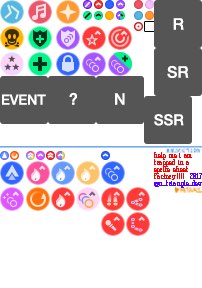
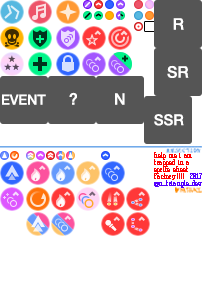
add Tricolor Symphony and Cinderella Yell skills

Changed region(s): [[0.1188, 0.7188, 0.3861, 0.8438], [0.505, 0.75, 0.5941, 0.8125], [0.3267, 0.5, 0.3861, 0.5625]]

diff --git a/static/css/main.less b/static/css/main.less
@@ -133,7 +133,7 @@ footer {
 
 .icon {
   display:inline-block;
-  background-image:url(../img/smarkers.png?v7);
+  background-image:url(../img/smarkers.png?v8);
   .stitches-marker(-48px, -76px, 48px, 48px);
 
   &.icon_event {
@@ -205,9 +205,6 @@ footer {
   &.s_mimic {
     .stitches-marker(-26px, -187px, 24px, 24px);
   }
-  &.s_synergy {
-    .stitches-marker(-76px, -187px, 24px, 24px);
-  }
   &.s_tuning {
     .stitches-marker(-101px, -161px, 24px, 24px);
   }
@@ -223,6 +220,12 @@ footer {
   &.s_motif {
     .stitches-marker(-101px, -212px, 24px, 24px);
   }
+  &.s_symphony {
+    .stitches-marker(-26px, -212px, 24px, 24px);
+  }
+  &.s_synergy {
+    .stitches-marker(-51px, -212px, 24px, 24px);
+  }
   &.s_unknown {
     .stitches-marker(0px, -143px, 24px, 1px);
   }
@@ -236,8 +239,8 @@ footer {
     &.s_heal, &.s_life, &.s_overload, &.m_ba, &.s_allround, &.s_focus,
     &.s_perfelegant, &.s_sb, &.s_cbonus_based_life, &.s_mimic, &.s_synergy,
     &.s_tuning, &.s_psbvarianta, &.s_psbvariantb, &.s_psbvariantc,
-    &.s_motif {
-      background-image:url(../img/smarkers@2x.png?v7);
+    &.s_motif, &.s_symphony {
+      background-image:url(../img/smarkers@2x.png?v8);
       background-size: 202px 288px;
       border-radius:0px;
     }
@@ -929,7 +932,7 @@ span.var {
     left:1px; top:1px;
     display:block;
     width:9px; height:9px;
-    background: url("../img/smarkers.png?v7") -115px -26px no-repeat;
+    background: url("../img/smarkers.png?v8") -115px -26px no-repeat;
 
     content:"";
   }
@@ -955,7 +958,7 @@ span.var {
     left:1px; top:10px;
     display:block;
     width:9px; height:9px;
-    background: url("../img/smarkers.png?v7") -145px -22px no-repeat;
+    background: url("../img/smarkers.png?v8") -145px -22px no-repeat;
 
     content:"";
   }
@@ -999,6 +1002,9 @@ span.var {
   &.ms_synergy::after {
     background-position: -56px -151px;
   }
+  &.ms_symphony::after {
+    background-position: -66px -151px;
+  }
   &.ms_cbonus_based_life::after {
     background-position: -36px -151px;
   }
@@ -1027,7 +1033,7 @@ span.var {
       only screen and (-o-min-device-pixel-ratio: 13/10),
       only screen and (min-resolution: 120dpi) {
     &::after, &::before {
-      background-image:url("../img/smarkers@2x.png?v7")!important;
+      background-image:url("../img/smarkers@2x.png?v8")!important;
       background-size:202px 288px!important;
     }
   }

diff --git a/static/css/main.css b/static/css/main.css
@@ -79,7 +79,7 @@ footer {
 /* chara_partial */
 .icon {
   display: inline-block;
-  background-image: url(../img/smarkers.png?v7);
+  background-image: url(../img/smarkers.png?v8);
   background-position: -48px -76px;
   width: 48px;
   height: 48px;
@@ -199,11 +199,6 @@ footer {
   width: 24px;
   height: 24px;
 }
-.icon.s_synergy {
-  background-position: -76px -187px;
-  width: 24px;
-  height: 24px;
-}
 .icon.s_tuning {
   background-position: -101px -161px;
   width: 24px;
@@ -226,6 +221,16 @@ footer {
 }
 .icon.s_motif {
   background-position: -101px -212px;
+  width: 24px;
+  height: 24px;
+}
+.icon.s_symphony {
+  background-position: -26px -212px;
+  width: 24px;
+  height: 24px;
+}
+.icon.s_synergy {
+  background-position: -51px -212px;
   width: 24px;
   height: 24px;
 }
@@ -265,8 +270,9 @@ footer {
   .icon.s_psbvarianta,
   .icon.s_psbvariantb,
   .icon.s_psbvariantc,
-  .icon.s_motif {
-    background-image: url(../img/smarkers@2x.png?v7);
+  .icon.s_motif,
+  .icon.s_symphony {
+    background-image: url(../img/smarkers@2x.png?v8);
     background-size: 202px 288px;
     border-radius: 0px;
   }
@@ -974,7 +980,7 @@ span.var {
   display: block;
   width: 9px;
   height: 9px;
-  background: url("../img/smarkers.png?v7") -115px -26px no-repeat;
+  background: url("../img/smarkers.png?v8") -115px -26px no-repeat;
   content: "";
 }
 .icon.msprites.mm_vi::before {
@@ -996,7 +1002,7 @@ span.var {
   display: block;
   width: 9px;
   height: 9px;
-  background: url("../img/smarkers.png?v7") -145px -22px no-repeat;
+  background: url("../img/smarkers.png?v8") -145px -22px no-repeat;
   content: "";
 }
 .icon.msprites.ms_pl::after {
@@ -1038,6 +1044,9 @@ span.var {
 .icon.msprites.ms_synergy::after {
   background-position: -56px -151px;
 }
+.icon.msprites.ms_symphony::after {
+  background-position: -66px -151px;
+}
 .icon.msprites.ms_cbonus_based_life::after {
   background-position: -36px -151px;
 }
@@ -1065,7 +1074,7 @@ span.var {
 @media only screen and (-webkit-min-device-pixel-ratio: 1.3), only screen and (-o-min-device-pixel-ratio: 13/10), only screen and (min-resolution: 120dpi) {
   .icon.msprites::after,
   .icon.msprites::before {
-    background-image: url("../img/smarkers@2x.png?v7") !important;
+    background-image: url("../img/smarkers@2x.png?v8") !important;
     background-size: 202px 288px!important;
   }
 }

diff --git a/starlight/en.py b/starlight/en.py
@@ -79,6 +79,7 @@ SKILL_DESCRIPTIONS = {
     35: """that Perfect notes will receive a <a href="/motif_internal/{0}?appeal=vocal">score bonus determined by the team's Vocal appeal</a>""",
     36: """that Perfect notes will receive a <a href="/motif_internal/{0}?appeal=dance">score bonus determined by the team's Dance appeal</a>""",
     37: """that Perfect notes will receive a <a href="/motif_internal/{0}?appeal=visual">score bonus determined by the team's Visual appeal</a>""",
+    38: """that with all three types of idols on the team, to boost the score/combo bonus/health recovery of currently active skills"""
 }
 
 SKILL_TYPES_WITH_PERCENTAGE_EFF_VAL1 = [1, 2, 3, 4, 14, 15, 21, 22, 23, 24, 26, 27, 28, 29, 30, 31]
@@ -219,6 +220,9 @@ def describe_lead_skill_html(skill):
 
         effect_clause = """Allows active skill effects to stack, but only {0} of the team applies during the live""".format(
                 target_param)
+    elif skill.type == 80:
+        effect_clause = """Raises the XP, money, and friend points that you (and your guest's producer) receive by <span class="let">{0}</span>% when you finish a live""".format(
+            skill.up_value)
     else:
         return """I don't know how to describe this leader skill. This is a bug, please report it. (up_type: {0}, type: {1})""".format(
             skill.up_type, skill.type

diff --git a/enums.py b/enums.py
@@ -79,6 +79,8 @@ skill_type = enum([
     35, "Vocal Motif",
     36, "Dance Motif",
     37, "Visual Motif",
+
+    38, "Tricolor Symphony",
 ])
 
 skill_probability = enum([
@@ -196,6 +198,8 @@ skill_class = enum([
     35, "s_motif",
     36, "s_motif",
     37, "s_motif",
+
+    38, "s_symphony"
 ])
 
 stat_dot = enum([
